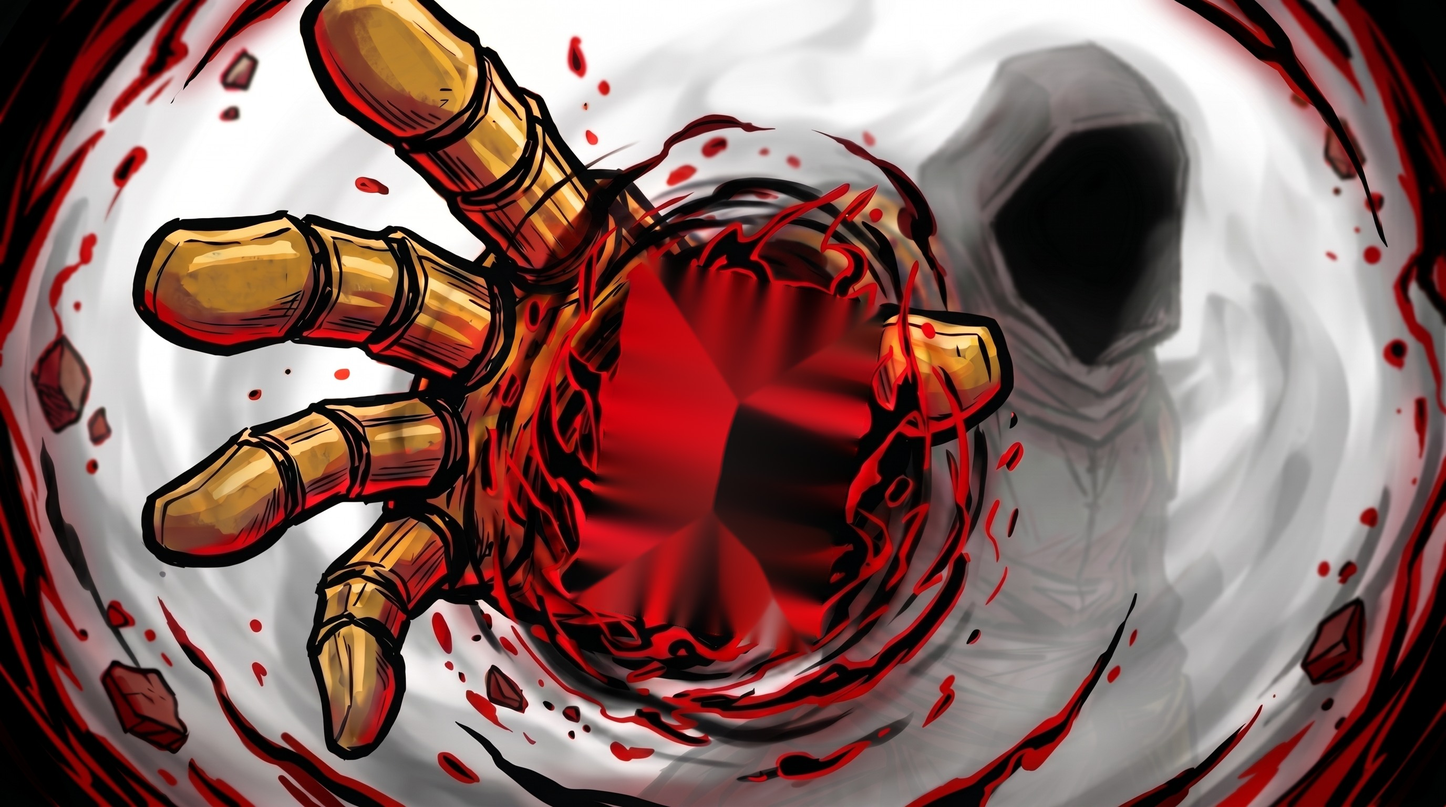
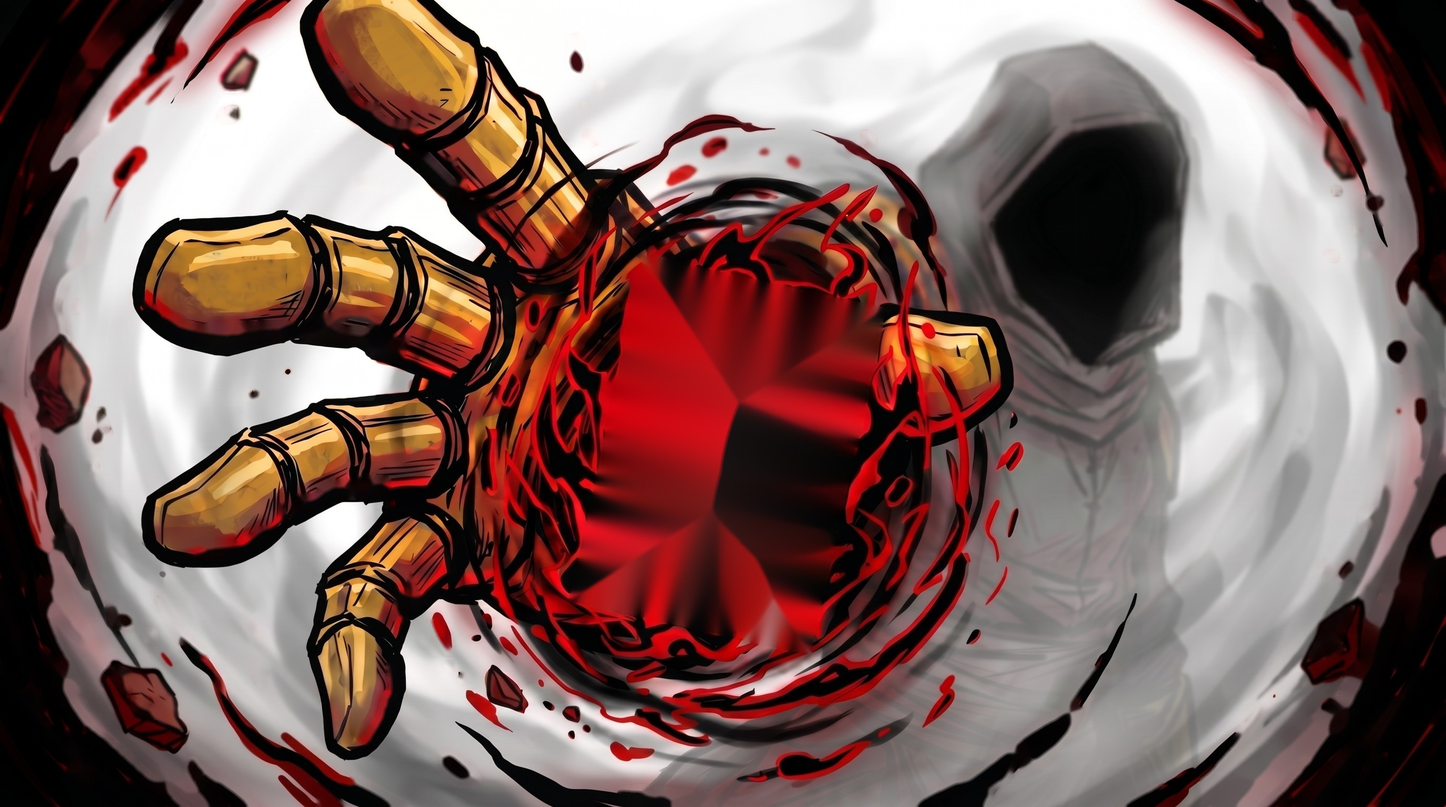
Gauntlet stage: full multiplane depth stack
gauntlet-layers.py builds bg (bare, green-inpainted), depth map, debris layer, and lifts debris out of the plate. gauntlet.html V10: back scene = bare backdrop w/ overscan + depth-displaced plate shader + drifting debris, fixed back camera, per-mesh parallax depths. Verified at both cursor extremes: no gaps, no green, console clean.

diff --git a/gauntlet.html b/gauntlet.html
@@ -8,13 +8,19 @@
 <style>
 /* ============================================================================
    GAUNTLET STAGE — the layered LIVING version (multiplane, like a real one).
-     layer 1  canvas#glBack   Three.js plane: the PLATE (scene w/o front bits)
-     layer 2  DOM  .cardslot  the live Magic card (click/flip/cycle)
-     layer 3  canvas#glFront  Three.js mesh: the front tendrils, vertex-wobbled
-                              in a shader + additive glow — the energy is alive
-   One shared cover-fit camera window keeps all three registered; cursor
-   parallax moves them at different depths. Assets from scripts/gauntlet-
-   extract.py (difference-matte when the real plate exists, stand-in for now).
+     canvas#glBack, three planes at real depths:
+       bg      P's bare generation (hand removed) — overscan backdrop that
+               peeks out at the frame edges when the scene leans
+       plate   the registered scene, depth-DISPLACED in a fragment shader
+               (crude depth map: hand near, socket mid, edges far) — the hand
+               leans over the background with zero cut edges
+       debris  the red ring arcs + floating rocks, lifted off the plate,
+               drifting on their own orbit
+     DOM .cardslot   the live Magic card (click/flip/cycle), depth 1.0
+     canvas#glFront  the front tendrils, vertex-wobbled + additive glow
+   One shared cover-fit window keeps everything registered; cursor parallax
+   moves each plane by its depth. Assets: scripts/gauntlet-extract.py then
+   scripts/gauntlet-layers.py (from P's staged generations in Downloads).
    ============================================================================ */
 :root{--gold:#ffd24a;--dim:#90a6cc}
 *{margin:0;padding:0;box-sizing:border-box}
@@ -71,7 +77,7 @@ canvas#glFront{z-index:3;pointer-events:none}
 <script>
 (async () => {
   'use strict';
-  const V = 9; // asset version
+  const V = 10; // asset version
   const geom = await (await fetch(`assets/bg/gauntlet-geom.json?v=${V}`)).json();
   const W = geom.imgW, H = geom.imgH, card = geom.card, fr = geom.front;
 
@@ -122,16 +128,42 @@ canvas#glFront{z-index:3;pointer-events:none}
   const loader = new THREE.TextureLoader();
   const tex = (u) => new Promise((res) => loader.load(u, (t) => { t.minFilter = THREE.LinearFilter; res(t); }));
 
-  // back scene: the plate
+  // back scene, three depths (camera stays put; each MESH rides its own k)
   const sceneB = new THREE.Scene();
-  const plateTex = await tex(`assets/bg/gauntlet-plate.jpg?v=${V}`);
-  {
-    const m = new THREE.Mesh(new THREE.PlaneGeometry(W, H),
-      new THREE.MeshBasicMaterial({ map: plateTex, side: THREE.DoubleSide }));
-    m.position.set(W / 2, H / 2, 0);
-    m.scale.y = -1;                                   // y-down source coords
-    sceneB.add(m);
-  }
+  const [bgTex, plateTex, depthTex, debrisTex] = await Promise.all([
+    tex(`assets/bg/gauntlet-bg.jpg?v=${V}`),
+    tex(`assets/bg/gauntlet-plate.jpg?v=${V}`),
+    tex(`assets/bg/gauntlet-depth.jpg?v=${V}`),
+    tex(`assets/bg/gauntlet-debris.png?v=${V}`),
+  ]);
+  const K = { bg: 0.30, plate: 0.82, disp: 0.35, debris: 1.22 }; // depth factors
+  const bgM = new THREE.Mesh(new THREE.PlaneGeometry(W, H),
+    new THREE.MeshBasicMaterial({ map: bgTex, side: THREE.DoubleSide }));
+  bgM.position.set(W / 2, H / 2, -30);
+  bgM.scale.set(1.06, -1.06, 1);                      // overscan for edge reveals
+  sceneB.add(bgM);
+  // the plate leans in 3D: per-pixel parallax from the depth map, no cut edges
+  const plateUni = { uMap: { value: plateTex }, uDepth: { value: depthTex }, uPar: { value: new THREE.Vector2(0, 0) } };
+  const plateM = new THREE.Mesh(new THREE.PlaneGeometry(W, H), new THREE.ShaderMaterial({
+    uniforms: plateUni, side: THREE.DoubleSide,
+    vertexShader: `varying vec2 vUv; void main(){ vUv = uv; gl_Position = projectionMatrix * modelViewMatrix * vec4(position, 1.0); }`,
+    fragmentShader: `
+      uniform sampler2D uMap; uniform sampler2D uDepth; uniform vec2 uPar;
+      varying vec2 vUv;
+      void main() {
+        float d = smoothstep(0.30, 1.0, texture2D(uDepth, vUv).r);
+        gl_FragColor = texture2D(uMap, vUv + uPar * d);
+      }`,
+  }));
+  plateM.position.set(W / 2, H / 2, -20);
+  plateM.scale.y = -1;                                // y-down source coords
+  sceneB.add(plateM);
+  const deb = geom.layers.debris;
+  const debM = new THREE.Mesh(new THREE.PlaneGeometry(deb.w, deb.h),
+    new THREE.MeshBasicMaterial({ map: debrisTex, transparent: true, depthWrite: false, side: THREE.DoubleSide }));
+  debM.position.set(deb.x + deb.w / 2, deb.y + deb.h / 2, -10);
+  debM.scale.y = -1;
+  sceneB.add(debM);
 
   // front scene: the tendrils, alive (vertex wobble + additive glow twin)
   const sceneF = new THREE.Scene();
@@ -228,9 +260,17 @@ canvas#glFront{z-index:3;pointer-events:none}
   function frame(ms) {
     par.x += (par.tx - par.x) * 0.06;
     par.y += (par.ty - par.y) * 0.06;
-    uni.uTime.value = ms * 0.001;
-    setCam(camB, 0.45);   // plate drifts least (far)
+    const t = ms * 0.001;
+    uni.uTime.value = t;
+    setCam(camB, 0);      // back camera fixed — each mesh rides its own depth
     setCam(camF, 1.7);    // tendrils drift most (near)
+    const px = par.x / view.s, py = par.y / view.s;   // parallax in source px
+    bgM.position.set(W / 2 + px * K.bg, H / 2 + py * K.bg, -30);
+    plateM.position.set(W / 2 + px * K.plate, H / 2 + py * K.plate, -20);
+    plateUni.uPar.value.set(-px * K.disp / W, py * K.disp / H);
+    debM.position.set(deb.x + deb.w / 2 + px * K.debris + Math.sin(t * 0.23) * 5,
+                      deb.y + deb.h / 2 + py * K.debris + Math.cos(t * 0.17) * 4, -10);
+    debM.rotation.z = Math.sin(t * 0.11) * 0.006;
     placeCard();          // card rides depth 1.0 via par directly
     back.render(sceneB, camB);
     front.render(sceneF, camF);

diff --git a/scripts/gauntlet-layers.py b/scripts/gauntlet-layers.py
@@ -1,0 +1,113 @@
+# gauntlet-layers.py — build the FULL multiplane layer stack:
+#   gauntlet-bg.jpg     bare scene (P's hand-removed generation), green inpainted
+#   gauntlet-hand.png   the gauntlet + socket, cut from the REGISTERED plate by
+#                       its gold signature (generous margins: fringe is white
+#                       swirl over white swirl, invisible at parallax)
+#   gauntlet-debris.png the red ring arcs + floating debris outside the hand
+#   (gauntlet-front.png stays as built — registered with the master's card)
+# Depth registration rule: socket, card and front waves all derive from the
+# master; the bg is P's re-render (fine — layers at different depths never
+# need pixel registration with each other).
+# ORDER: run gauntlet-extract.py FIRST, then this — this script inpaints the
+# debris out of gauntlet-plate.jpg in place, so it must start from a fresh
+# extract (running it twice back-to-back finds no debris to cut).
+import json
+import os
+import numpy as np
+import cv2
+
+DL = r"C:\Users\P\Downloads"
+HERE = os.path.dirname(os.path.dirname(os.path.abspath(__file__)))
+OUT = os.path.join(HERE, "assets", "bg")
+
+plate = cv2.imread(os.path.join(OUT, "gauntlet-plate.jpg"))     # registered (master-derived)
+bare = cv2.imread(os.path.join(DL, "gauntlet-bare.png"))        # P's background generation
+h, w = plate.shape[:2]
+if bare.shape[:2] != (h, w):
+    bare = cv2.resize(bare, (w, h), interpolation=cv2.INTER_LANCZOS4)
+
+def inpaint_green(img):
+    b, g, r = img[:, :, 0].astype(int), img[:, :, 1].astype(int), img[:, :, 2].astype(int)
+    gm = ((g > 110) & (g > r * 14 // 10) & (g > b * 14 // 10)).astype(np.uint8) * 255
+    gm = cv2.dilate(gm, np.ones((9, 9), np.uint8))
+    return cv2.inpaint(img, gm, 9, cv2.INPAINT_TELEA) if gm.any() else img
+
+# ---- background: bare, greenless ----
+bg = inpaint_green(bare)
+cv2.imwrite(os.path.join(OUT, "gauntlet-bg.jpg"), bg, [cv2.IMWRITE_JPEG_QUALITY, 90])
+
+# ---- hand layer: gold blob + margins + filled holes (socket rides along) ----
+b, g, r = plate[:, :, 0].astype(int), plate[:, :, 1].astype(int), plate[:, :, 2].astype(int)
+gold = ((r > 105) & (g > 55) & (g < r) & (b < g) & (r - b > 45)).astype(np.uint8) * 255
+blob = cv2.morphologyEx(gold, cv2.MORPH_CLOSE, np.ones((41, 41), np.uint8))
+# fingers, thumb, arm and knuckles are separate gold islands — keep every
+# sizable one, then bridge them (the dark socket between them gets enclosed)
+nn, ll, stats, _ = cv2.connectedComponentsWithStats(blob, connectivity=8)
+blob = np.zeros_like(blob)
+for i in range(1, nn):
+    if stats[i, cv2.CC_STAT_AREA] >= 3000:
+        blob[ll == i] = 255
+blob = cv2.morphologyEx(blob, cv2.MORPH_CLOSE, np.ones((81, 81), np.uint8))
+blob = cv2.dilate(blob, np.ones((31, 31), np.uint8))
+# fill enclosed holes (the socket + card area inside the grip). The arm spans
+# the frame and PARTITIONS the outside, so "outside" = every inverse component
+# touching the border; true holes are the rest.
+inv = cv2.bitwise_not(blob)
+nn2, ll2, stats2, _ = cv2.connectedComponentsWithStats(inv, connectivity=8)
+handmask = blob.copy()
+for i in range(1, nn2):
+    x, y, ww, hh = stats2[i, cv2.CC_STAT_LEFT], stats2[i, cv2.CC_STAT_TOP], stats2[i, cv2.CC_STAT_WIDTH], stats2[i, cv2.CC_STAT_HEIGHT]
+    touches_border = x == 0 or y == 0 or x + ww >= w or y + hh >= h
+    if not touches_border:
+        handmask[ll2 == i] = 255
+hand_alpha = cv2.GaussianBlur(handmask, (21, 21), 0)   # soft 10px feather
+ys, xs = np.nonzero(hand_alpha)
+hx0, hy0, hx1, hy1 = max(0, xs.min() - 4), max(0, ys.min() - 4), min(w, xs.max() + 4), min(h, ys.max() + 4)
+hand = np.dstack([plate[hy0:hy1, hx0:hx1], hand_alpha[hy0:hy1, hx0:hx1]])
+cv2.imwrite(os.path.join(OUT, "gauntlet-hand.png"), hand)
+
+# ---- crude depth map: hand near, socket bump, edges far — drives the plate's
+#      fragment-shader displacement (fake-3D), no cutting required ----
+geom0 = json.load(open(os.path.join(OUT, "gauntlet-geom.json")))
+c0 = geom0["card"]
+depth = np.full((h, w), 0.34, np.float32)
+depth += 0.44 * (cv2.GaussianBlur(handmask, (0, 0), 45).astype(np.float32) / 255.0)
+yy, xx = np.mgrid[0:h, 0:w].astype(np.float32)
+rad = np.sqrt(((xx - c0["cx"]) / 760) ** 2 + ((yy - c0["cy"]) / 760) ** 2)
+depth += 0.20 * np.clip(1.0 - rad, 0, 1)
+depth = np.clip(depth, 0, 1)
+cv2.imwrite(os.path.join(OUT, "gauntlet-depth.jpg"), (depth * 255).astype(np.uint8), [cv2.IMWRITE_JPEG_QUALITY, 88])
+
+# ---- debris/ring layer: red-dominant clusters OUTSIDE the hand and OUTSIDE
+#      the socket neighbourhood (the plate's inpainted card region is red) ----
+red = ((r > 85) & (r > g * 27 // 20) & (r > b * 27 // 20)).astype(np.uint8) * 255
+red[handmask > 0] = 0
+red[rad < 0.85] = 0
+red = cv2.morphologyEx(red, cv2.MORPH_CLOSE, np.ones((7, 7), np.uint8))
+nn, ll, stats, _ = cv2.connectedComponentsWithStats(red, connectivity=8)
+keep = np.zeros((h, w), np.uint8)
+for i in range(1, nn):
+    if 80 <= stats[i, cv2.CC_STAT_AREA]:
+        keep[ll == i] = 255
+deb_alpha = cv2.GaussianBlur(keep, (5, 5), 0)
+ys, xs = np.nonzero(deb_alpha)
+dx0, dy0, dx1, dy1 = max(0, xs.min() - 4), max(0, ys.min() - 4), min(w, xs.max() + 4), min(h, ys.max() + 4)
+debris = np.dstack([plate[dy0:dy1, dx0:dx1], deb_alpha[dy0:dy1, dx0:dx1]])
+cv2.imwrite(os.path.join(OUT, "gauntlet-debris.png"), debris)
+
+# ---- lift the debris OUT of the plate (the drifting copy must be the only
+#      instance, or its motion doubles against the baked original) ----
+lift = cv2.dilate(keep, np.ones((9, 9), np.uint8))
+plate_clean = cv2.inpaint(plate, lift, 7, cv2.INPAINT_TELEA)
+cv2.imwrite(os.path.join(OUT, "gauntlet-plate.jpg"), plate_clean, [cv2.IMWRITE_JPEG_QUALITY, 91])
+
+# ---- extend the geometry manifest ----
+gpath = os.path.join(OUT, "gauntlet-geom.json")
+geom = json.load(open(gpath))
+geom["layers"] = {
+    "hand": {"x": int(hx0), "y": int(hy0), "w": int(hx1 - hx0), "h": int(hy1 - hy0)},
+    "debris": {"x": int(dx0), "y": int(dy0), "w": int(dx1 - dx0), "h": int(dy1 - dy0)},
+}
+json.dump(geom, open(gpath, "w"))
+print("hand", geom["layers"]["hand"], "cover", round((handmask > 0).mean() * 100, 1), "%")
+print("debris", geom["layers"]["debris"], "cover", round((keep > 0).mean() * 100, 1), "%")
